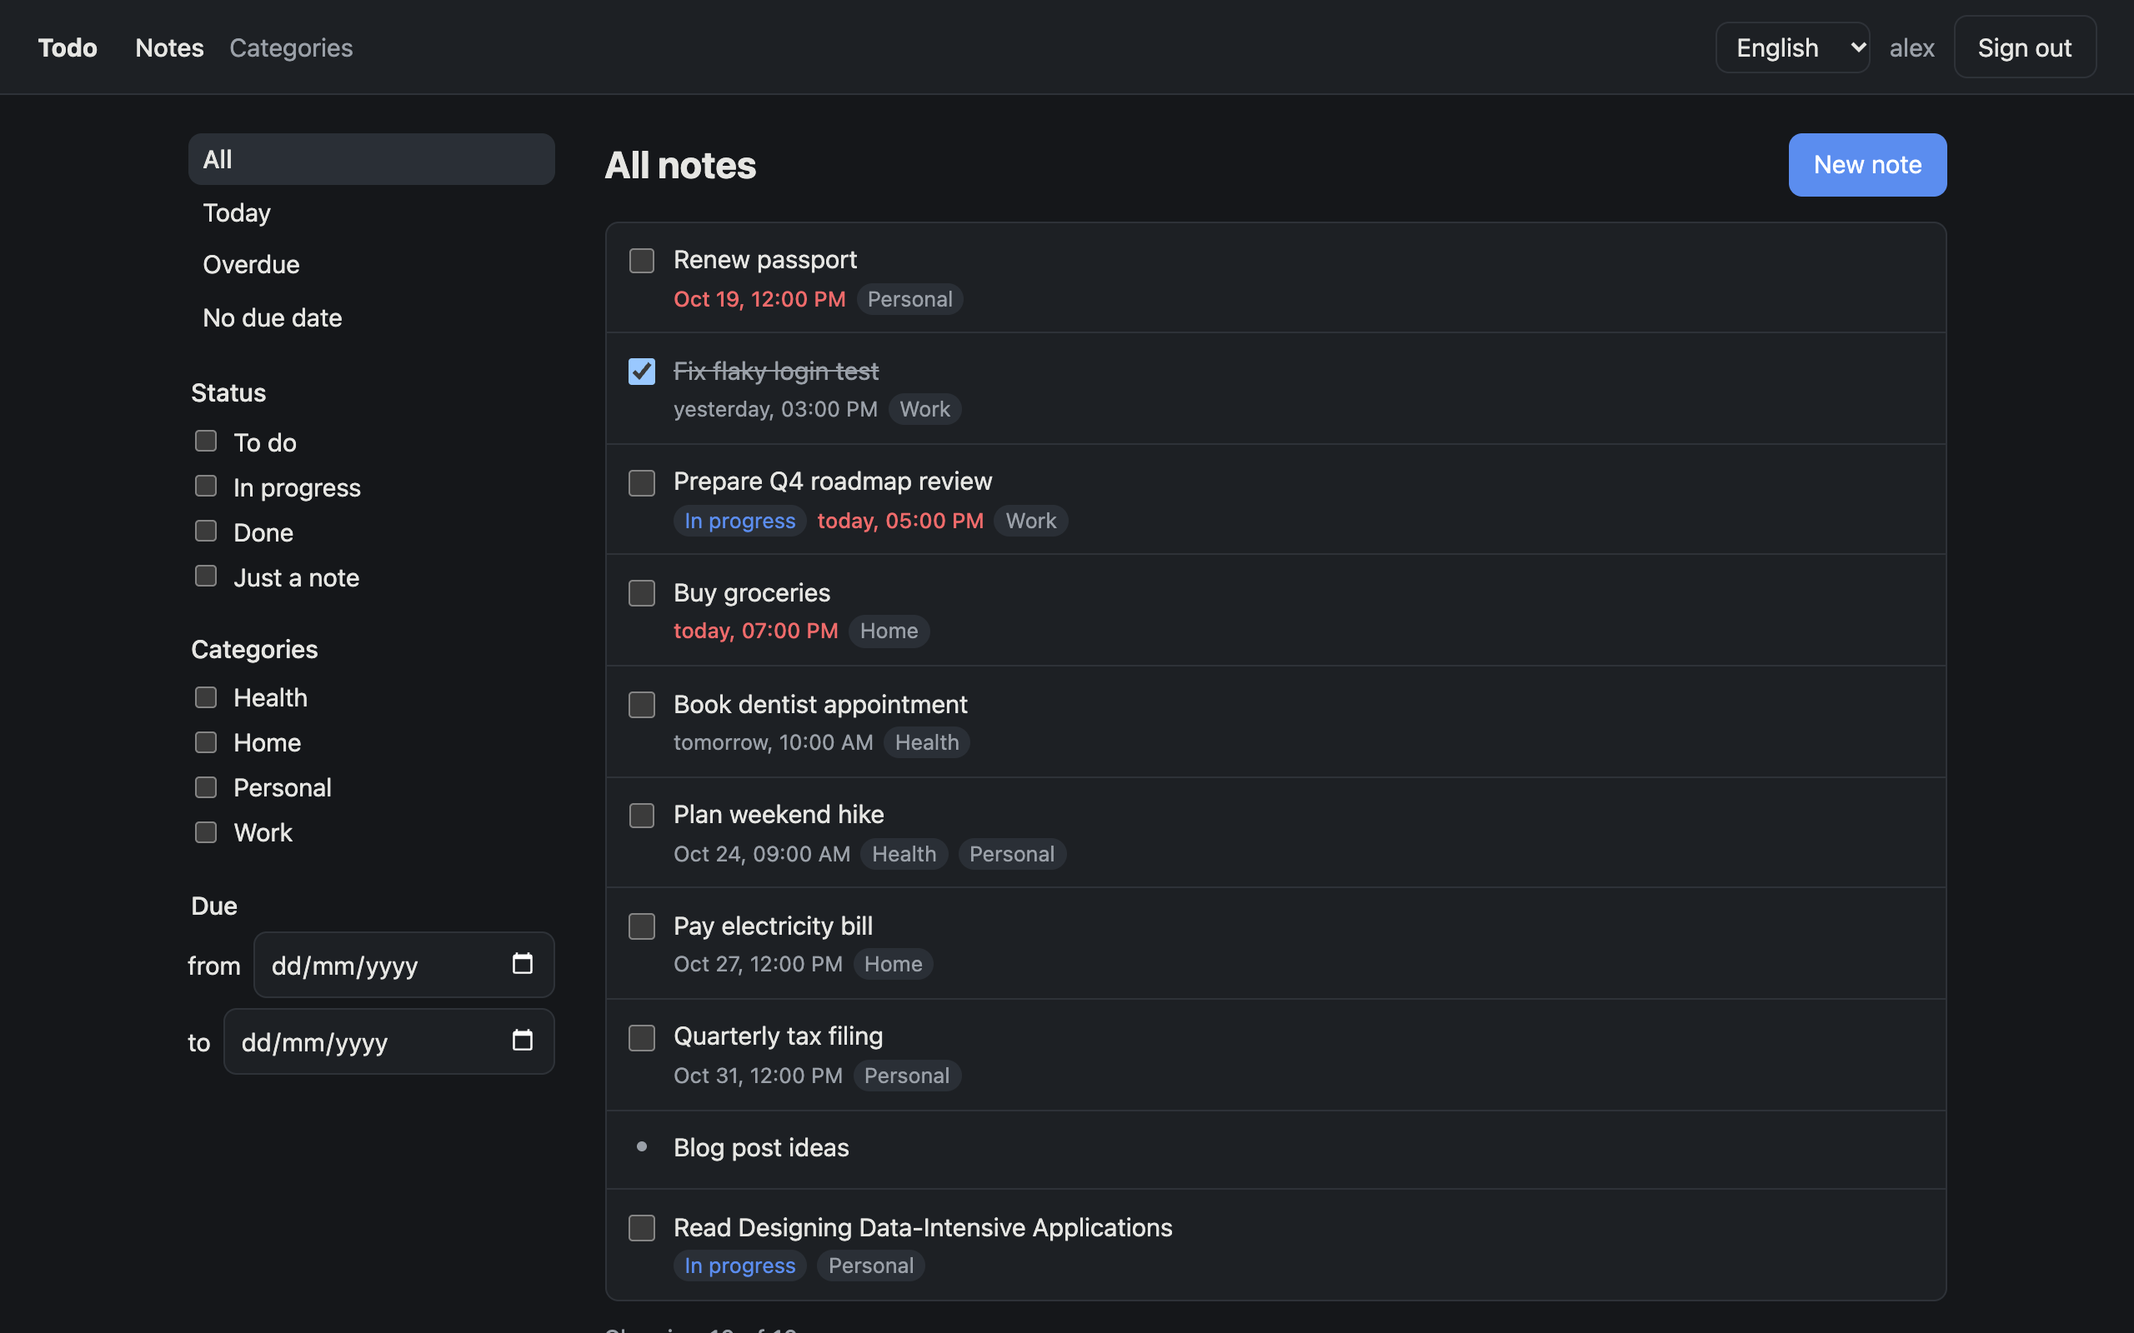
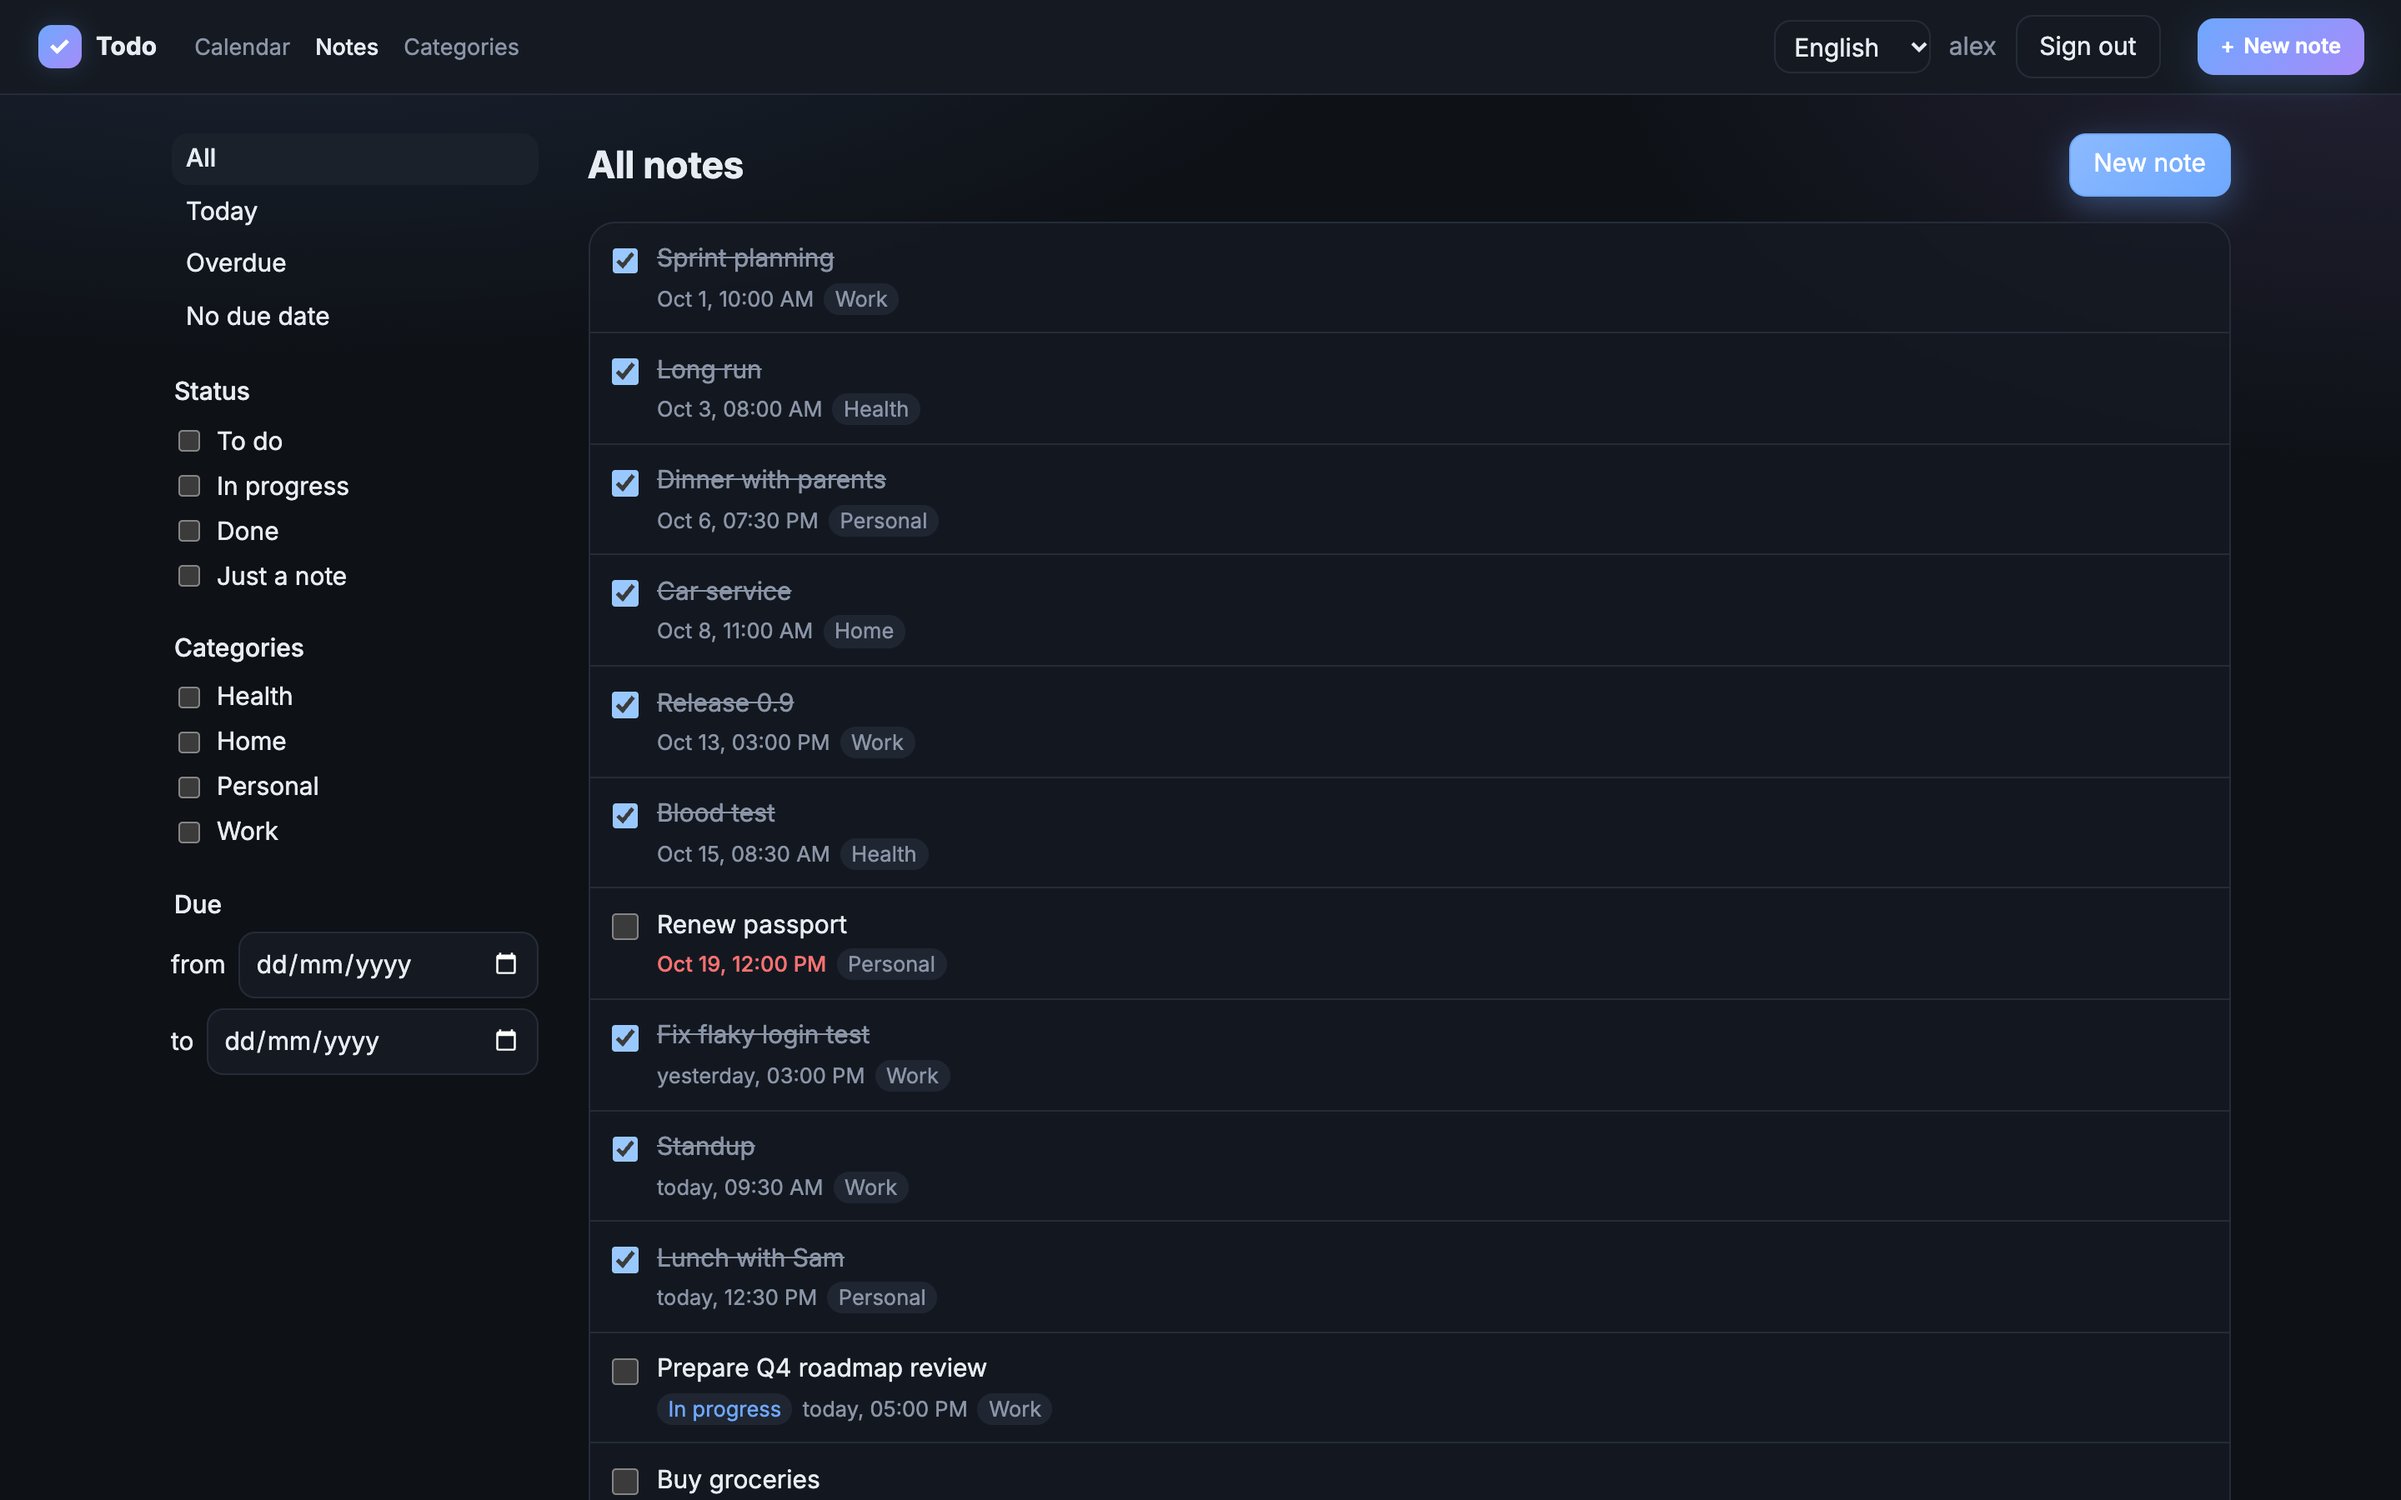
docs: refresh README for the calendar UI
New demo GIF and screenshots show the calendar, the week view and the
phone layout instead of the old list-first home page.

diff --git a/README.md b/README.md
@@ -27,7 +27,7 @@
     <a href="#roadmap">Roadmap</a>
   </p>
 
-  <img src=".github/assets/demo.gif" width="880" alt="Creating a note, completing a task and switching the interface to Russian">
+  <img src=".github/assets/demo.gif" width="880" alt="Switching between month and week, adding a note from a calendar day, completing a task and switching the interface to Russian">
 </div>
 
 ## Contents
@@ -46,14 +46,17 @@
 
 ## Features
 
+- 📅 **Calendar home page.** A month or week view where every task sits at its time of day,
+  next to a **Today** list with a "now" line and a **No date** list. Click a day to plan
+  something on it. On a phone, the page shows just Today and No date.
 - 📝 **Notes and tasks.** A title, an optional body and due date, and a status: `todo`,
   `in_progress`, `done`, or none for a plain note.
-- 🏷 **Categories.** Any number per note. Names are unique per user regardless of case,
-  in any language.
-- 🔎 **Filters that live in the URL.** Status, category, due date range and quick views
-  (Today, Overdue, No due date), with pagination.
+- 🏷 **Categories.** Any number per note, each with its own color in the calendar. Names are
+  unique per user regardless of case, in any language.
+- 🔎 **Filters that live in the URL.** On the Notes page: status, category, due date range and
+  quick views (Today, Overdue, No due date), with pagination.
 - 🌍 **English and Russian.** A language switcher, dates in the browser's locale and time zone,
-  and translated API errors.
+  the first day of the week from the locale, and translated API errors.
 - 🔐 **Private by default.** Sign up and sign in with JWT. Every user sees only their own data.
 - 🗑 **Soft delete.** Deleted records stay in the database and disappear from the API.
 - 💾 **Nothing gets lost.** When a session expires, a sign-in dialog opens over the current page,
@@ -93,19 +96,23 @@
 
 <table>
   <tr>
-    <td width="50%"><img src=".github/assets/notes.png" alt="Notes list"><p align="center"><sub><b>Notes</b>: statuses, due dates and categories at a glance</sub></p></td>
-    <td width="50%"><img src=".github/assets/notes-filtered.png" alt="Filtered notes list"><p align="center"><sub><b>Filters</b>: status and category, kept in the URL</sub></p></td>
+    <td colspan="2"><img src=".github/assets/calendar-month.png" alt="Calendar month view with Today and No date lists"><p align="center"><sub><b>Month</b>: tasks placed by time of day, the current time on today, overflow folded into "+N more"</sub></p></td>
+  </tr>
+  <tr>
+    <td width="68%"><img src=".github/assets/calendar-week.png" alt="Calendar week view"><p align="center"><sub><b>Week</b>: the same time scale with more room per day</sub></p></td>
+    <td width="32%"><img src=".github/assets/mobile.png" alt="Phone layout with Today and No date lists"><p align="center"><sub><b>Phone</b>: just Today and No date</sub></p></td>
+  </tr>
+  <tr>
+    <td width="50%"><img src=".github/assets/calendar-ru.png" alt="Russian interface"><p align="center"><sub><b>Russian UI</b>: Monday first, 24-hour time</sub></p></td>
+    <td width="50%"><img src=".github/assets/notes.png" alt="Notes list"><p align="center"><sub><b>Notes</b>: every note with filters kept in the URL</sub></p></td>
   </tr>
   <tr>
     <td width="50%"><img src=".github/assets/note-editor.png" alt="Note editor"><p align="center"><sub><b>Editor</b>: due date, status and categories</sub></p></td>
     <td width="50%"><img src=".github/assets/categories.png" alt="Categories page"><p align="center"><sub><b>Categories</b>: create, rename and delete</sub></p></td>
   </tr>
   <tr>
-    <td width="50%"><img src=".github/assets/notes-ru.png" alt="Russian interface"><p align="center"><sub><b>Russian UI</b>: dates follow the selected language</sub></p></td>
     <td width="50%"><img src=".github/assets/sign-in.png" alt="Sign-in page"><p align="center"><sub><b>Sign in</b>: with a language switcher</sub></p></td>
-  </tr>
-  <tr>
-    <td colspan="2"><img src=".github/assets/swagger.png" alt="Swagger UI"><p align="center"><sub><b>Swagger UI</b>: every endpoint, including error responses, is described in OpenAPI</sub></p></td>
+    <td width="50%"><img src=".github/assets/swagger.png" alt="Swagger UI"><p align="center"><sub><b>Swagger UI</b>: every endpoint and error response in OpenAPI</sub></p></td>
   </tr>
 </table>
 
@@ -229,8 +236,15 @@ flowchart LR
 
 ### Frontend
 
-- **Routing and data.** TanStack Router keeps filters in typed URL search params. TanStack
-  Query fetches the list page by page on demand and updates statuses optimistically.
+- **Routing and data.** TanStack Router keeps the calendar period and the Notes filters in
+  typed URL search params. TanStack Query updates statuses optimistically across the
+  calendar and both lists.
+- **Calendar:**
+  - month and week grids start on the locale's first day of the week;
+  - each task is positioned by its time of day, and close tasks are pushed apart instead of
+    overlapping;
+  - category colors are derived from the category id, so the backend stores no colors;
+  - the calendar loads every page of `GET /notes` for the visible range.
 - **API client.** `openapi-fetch` is typed by the generated `paths`, and so are the MSW mocks in
   tests.
 - **Session expiry.** A `401` opens a sign-in dialog over the current page, so unsaved input
@@ -329,7 +343,7 @@ tests/                backend tests
 frontend/             React SPA
   src/api/            generated schema, client, error mapping, queries
   src/auth/           session, sign-in and sign-up
-  src/features/       notes and categories
+  src/features/       calendar, home page, notes and categories
   src/i18n/           i18n setup and locales (en.json, ru.json)
 docker/               web image and Caddyfile
 Dockerfile            backend image
@@ -342,6 +356,7 @@ openapi.json          API contract snapshot
 ## Roadmap
 
 - [x] Notes, categories, filters and pagination
+- [x] Calendar home page with month and week views
 - [x] English and Russian UI
 - [x] Typed API contract checked in CI
 - [x] One-command Docker deployment
